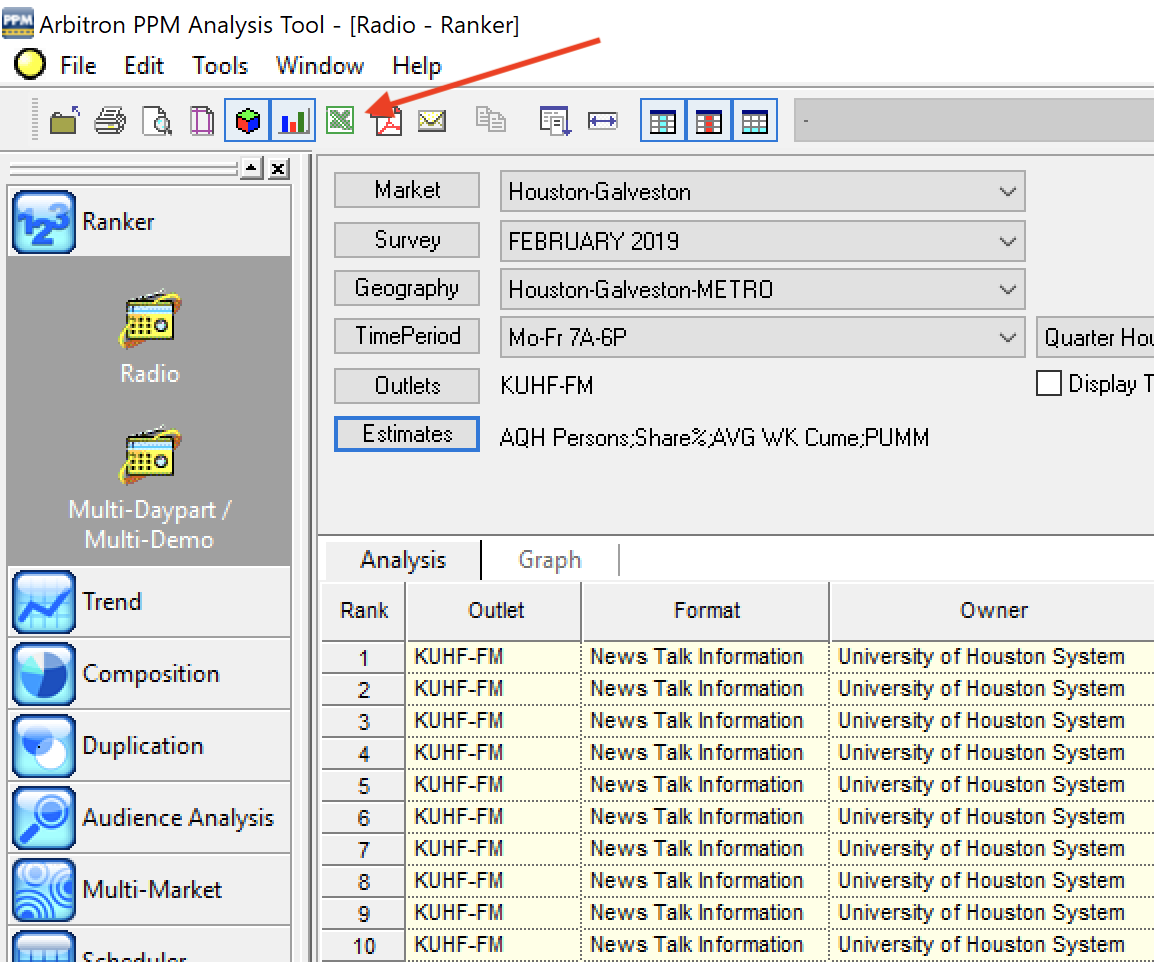
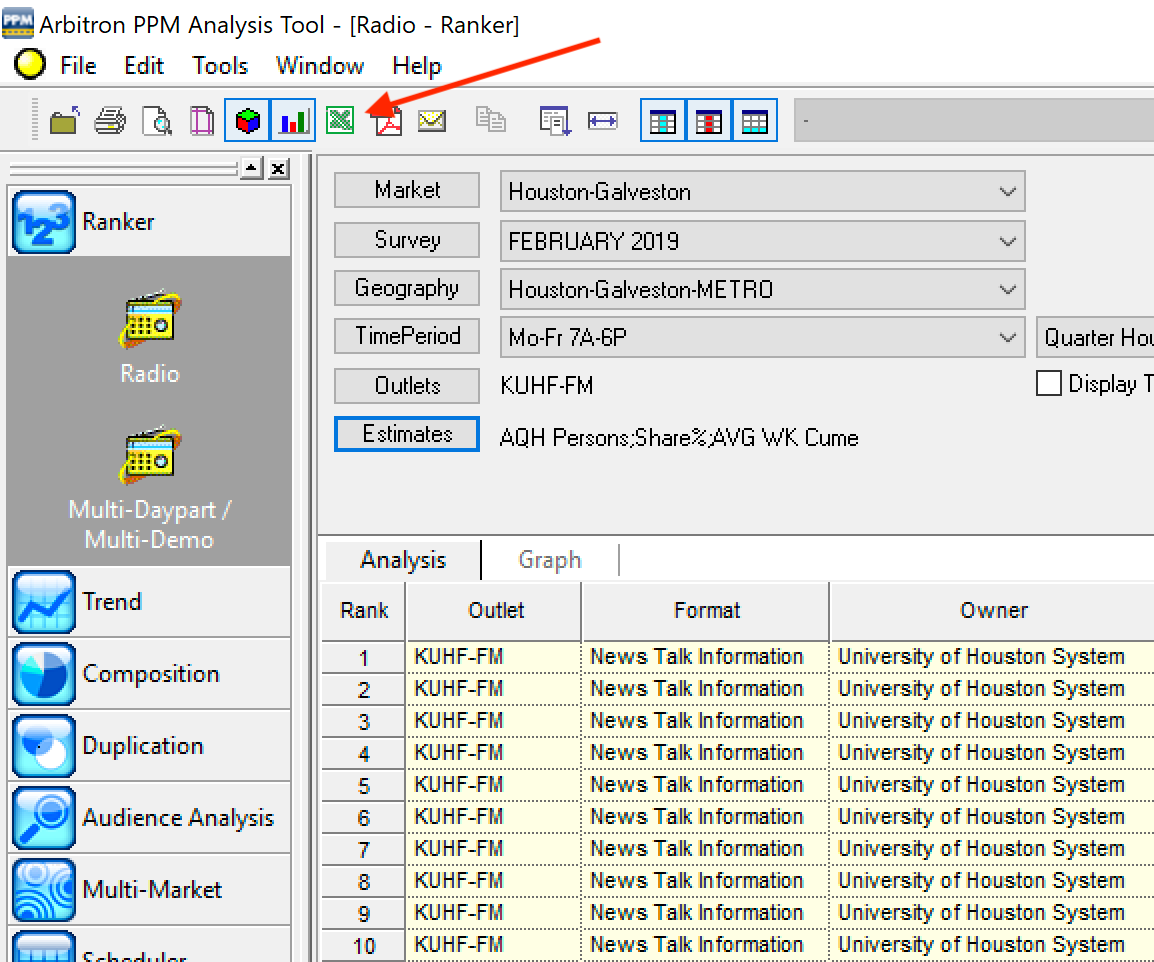
Removed PUMM as a metric

diff --git a/hub-app/src/components/Overall.vue b/hub-app/src/components/Overall.vue
@@ -70,7 +70,7 @@ export default {
 				for (m=0; m<metrics.length; m++) {
 					output += '<tr>';
 					if ( m == 0 ) {
-						output += '<th rowspan="5" scope="row" class="text-center align-middle">'+outlets[s].toUpperCase()+'</th>';
+						output += '<th rowspan="4" scope="row" class="text-center align-middle">'+outlets[s].toUpperCase()+'</th>';
 					}
 					output += '<td><strong>'+metrics[m].title+'</strong></td>';
 
@@ -89,7 +89,7 @@ export default {
 			for (m=0; m<metrics.length; m++) {
 				output += '<tr>';
 				if ( m == 0 ) {
-					output += '<th rowspan="5" scope="row" class="text-center align-middle">All Stations<br />(Average)</th>';
+					output += '<th rowspan="4" scope="row" class="text-center align-middle">All Stations<br />(Average)</th>';
 				}
 				output += '<td><strong>'+metrics[m].title+'</strong></td>';
 

diff --git a/hub-app/src/App.vue b/hub-app/src/App.vue
@@ -37,7 +37,6 @@
 						<bar-chart :chart-data="pullOutlet(item.text,chartData,'aqh-rtg')" :options="renderOptions('aqh-rtg')"></bar-chart>
 						<bar-chart :chart-data="pullOutlet(item.text,chartData,'share')" :options="renderOptions('share')"></bar-chart>
 						<bar-chart :chart-data="pullOutlet(item.text,chartData,'avg-wk-cume')" :options="renderOptions('avg-wk-cume')"></bar-chart>
-						<bar-chart :chart-data="pullOutlet(item.text,chartData,'pumm')" :options="renderOptions('pumm')"></bar-chart>
 					</template>
 				</div>
 			</div>
@@ -170,8 +169,6 @@ export default {
 				title = 'Share %';
 			} else if ( metric == 'avg-wk-cume' ) {
 				title = 'Average Weekly Cume';
-			} else if ( metric == 'pumm' ) {
-				title = 'Persons Using Measured Media (PUMM)';
 			}
 			return {
 				elements: {

diff --git a/hub-uploader/upload.php b/hub-uploader/upload.php
@@ -100,8 +100,6 @@
 							$headers['share'] = $k;
 						elseif ( trim( $v ) == 'AVG WK Cume' ) :
 							$headers['avg-wk-cume'] = $k;
-						elseif ( trim( $v ) == 'PUMM' ) :
-							$headers['pumm'] = $k;
 						endif;
 					endforeach;
 				elseif ( preg_match( '/^[A-Z\-]{5,7}$/', $d['B'] ) ) :
@@ -147,8 +145,7 @@
 								'aqh-persons' => str_replace( ',', '', $d[$headers['aqh-persons']] ),
 								'aqh-rtg' => $d[$headers['aqh-rtg']],
 								'share' => $d[$headers['share']],
-								'avg-wk-cume' => str_replace( ',', '', $d[$headers['avg-wk-cume']] ),
-								'pumm' => str_replace( ',', '', $d[$headers['pumm']] )
+								'avg-wk-cume' => str_replace( ',', '', $d[$headers['avg-wk-cume']] )
 							];
 						endif;
 					else :
@@ -157,8 +154,7 @@
 							'aqh-persons' => str_replace( ',', '', $d[$headers['aqh-persons']] ),
 							'aqh-rtg' => $d[$headers['aqh-rtg']],
 							'share' => $d[$headers['share']],
-							'avg-wk-cume' => str_replace( ',', '', $d[$headers['avg-wk-cume']] ),
-							'pumm' => str_replace( ',', '', $d[$headers['pumm']] )
+							'avg-wk-cume' => str_replace( ',', '', $d[$headers['avg-wk-cume']] )
 						];
 					endif;
 				endif;
@@ -170,15 +166,13 @@
 						$avg_aqh_rtg[] = $tp['during']['aqh-rtg'];
 						$avg_share[] = $tp['during']['share'];
 						$avg_wk_cume[] = $tp['during']['avg-wk-cume'];
-						$avg_pumm[] = $tp['during']['pumm'];
 					endif;
 				endforeach;
 				$temp[ $station ][ 'Averages' ] = [
 					'aqh-persons' => round( array_sum( $avg_aqh ) / count( $avg_aqh ), 0 ),
 					'aqh-rtg' => round( array_sum( $avg_aqh_rtg ) / count( $avg_aqh_rtg ), 1 ),
 					'share' => round( array_sum( $avg_share ) / count( $avg_share ), 1 ),
-					'avg-wk-cume' => round( array_sum( $avg_wk_cume ) / count( $avg_wk_cume ), 0 ),
-					'pumm' => round( array_sum( $avg_pumm ) / count( $avg_pumm ), 0 ),
+					'avg-wk-cume' => round( array_sum( $avg_wk_cume ) / count( $avg_wk_cume ), 0 )
 				];
 			endif;
 			file_put_contents( $filepath, json_encode( $temp ) );

diff --git a/hub-uploader/sheets.php b/hub-uploader/sheets.php
@@ -6,15 +6,13 @@
 		[ 'slug' => 'aqh-persons', 'name' => 'AQH Persons' ],
 		[ 'slug' => 'aqh-rtg', 'name' => 'AQH Rating %' ],
 		[ 'slug' => 'share', 'name' => 'Share %' ],
-		[ 'slug' => 'avg-wk-cume', 'name' => 'Average Weekly Cume' ],
-		[ 'slug' => 'pumm', 'name' => 'PUMM' ]
+		[ 'slug' => 'avg-wk-cume', 'name' => 'Average Weekly Cume' ]
 	];
 	$ros_avg = [
 		'aqh-persons' => [],
 		'aqh-rtg' => [],
 		'share' => [],
-		'avg-wk-cume' => [],
-		'pumm' => []
+		'avg-wk-cume' => []
 	];
 	$nc_avg = [];
 	foreach ( $times as $tt ) :
@@ -24,11 +22,11 @@
 		endforeach;
 	endforeach;
 
-	$station_headers = [ 'Timeframe', 'AQH Persons', 'AQH Rating %', 'Share %', 'Average Weekly Cume', 'PUMM' ];
+	$station_headers = [ 'Timeframe', 'AQH Persons', 'AQH Rating %', 'Share %', 'Average Weekly Cume' ];
 	$sheets = [
 		'Broadcast Overview' => [
 			[ 'Broadcast Overview (Run-of-Station)', '', '', '', '', '' ],
-			[ 'Station', 'AQH Persons', 'AQH Rating %', 'Share %', 'Average Weekly Cume', 'PUMM' ]
+			[ 'Station', 'AQH Persons', 'AQH Rating %', 'Share %', 'Average Weekly Cume' ]
 		],
 		'Newscasts Summary' => [
 			[ 'Newscasts Summary', '', '', '', '', '', '', '', '' ],
@@ -43,8 +41,7 @@
 				$kv['ROS']['aqh-persons'],
 				$kv['ROS']['aqh-rtg'],
 				$kv['ROS']['share'],
-				$kv['ROS']['avg-wk-cume'],
-				$kv['ROS']['pumm']
+				$kv['ROS']['avg-wk-cume']
 			];
 			foreach( $ros_avg as $rk => $rv ) :
 				$ros_avg[$rk][] = $kv['ROS'][$rk];

diff --git a/README.md b/README.md
@@ -16,7 +16,7 @@ This application was built to help visualize and aggregate newscast analytics fo
 			<li>Select your Geography. I usually pull the METRO Geography (as opposed to DMA), but we should decide as a group to be consistent.</li>
 			<li>Select your TimePeriod.  We will need to create a custom period, so click on the <code>TimePeriod</code> button. In the popup, click the "Custom" tab, select "Monday" for your Start Day, "Friday" for your End Day, Start Time of 7AM, End Time of 6PM, and select "Avg. All" under Day Selection. Click the <code>Select</code> button to enter it into the "Selected" pane below. You can also add it to your favorites, if you want.<br /><br /><strong><em>Make sure that the secondary dropdown on TimePeriod is set to "Quarter Hour." Very important.</em></strong><br /><img src="screenshots/screen-04.png" alt="Creating a custom time period" width="500"></li>
 			<li>Select your Outlet. Please only select one outlet at a time, since it will skew the Analysis Totals otherwise.</li>
-			<li>Select your Estimates by clicking the <code>Estimates</code> button. The reporting is currently set up to accept "AQH Persons," "AQH RTG%", "Share%," "AVG WK Cume," and "PUMM." Once you have moved them into the "Selected" pane, you can order them as pictured or not. The parsing script will figure it out.<br /><img src="screenshots/screen-06.png" alt="Setting up our estimates" width="500"></li>
+			<li>Select your Estimates by clicking the <code>Estimates</code> button. The reporting is currently set up to accept "AQH Persons," "AQH RTG%", "Share%," and "AVG WK Cume." Once you have moved them into the "Selected" pane, you can order them as pictured or not. The parsing script will figure it out.<br /><img src="screenshots/screen-06.png" alt="Setting up our estimates" width="500"></li>
 			<li>Select the rest of the reporting options: Target to "P 6+", Location to "Both In/Out of Home", Listening to "Threshold Not Set".<br /><img src="screenshots/screen-07.png" alt="The remaining settings" width="500"></li>
 		</ol>
 	</li>
